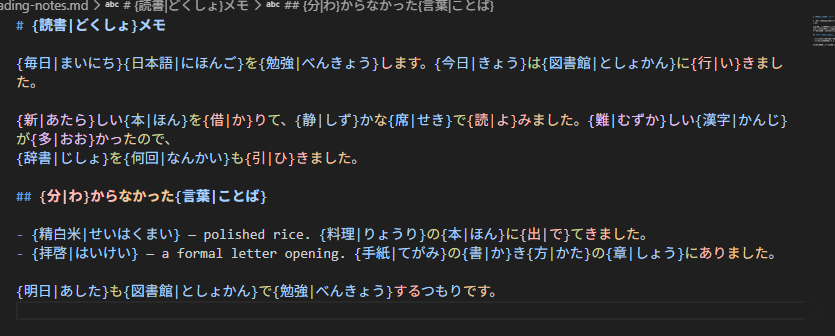
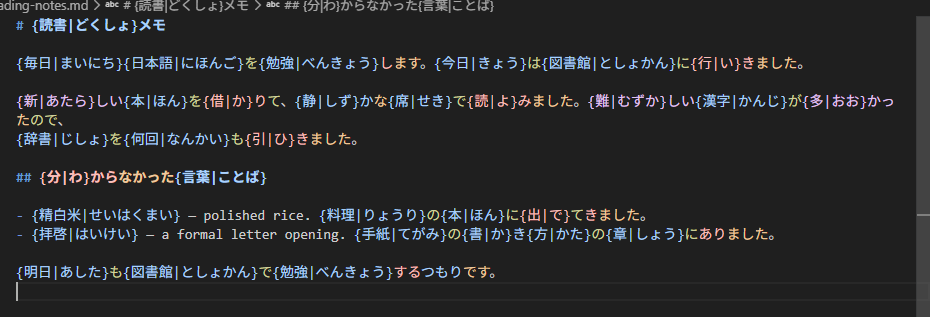
docs: update the feature claims, add a code-comment shot, translate the hero
The README said the editor features apply to "Markdown and plain-text files",
which stopped being true when comment highlighting landed. Hovers still do;
part-of-speech colouring now covers code comments as well, and the wording
separates the two rather than making one claim for both.

New section, "Color Japanese in code comments", with a capture whose whole
subject is the BOUNDARY: coloured comments above, an uncoloured string literal
below. The scenario asserts both before it shoots — at least eight decorated
spans on the comment, exactly zero on the literal — so if the feature ever
starts colouring string literals the docs run fails instead of quietly producing
a picture of the bug.

The hero image now shows this project's own README translated into Japanese,
rather than a study-notes fixture. A hero should show the reader themselves, and
someone reading technical documentation in a language they are still learning is
both the case this extension is for and a more universal one than keeping
vocabulary notes. It is also a deliberate first step toward a translated README,
which is a larger job because it needs review rather than just writing.

The translation is LITERAL — sentence for sentence against the English — rather
than a paraphrase. A paraphrase drifts from the text it claims to mirror, and
this file is meant to become that README later, so the drift would have to be
undone. It runs to the search table, which is what fills the editor pane.
[…]

diff --git a/e2e/docs/manual.docs.e2e.ts b/e2e/docs/manual.docs.e2e.ts
@@ -76,7 +76,12 @@ test.describe.configure({ mode: "serial" });
 let vscode: Launched | undefined;
 
 /** The fixture files, copied into the throwaway workspace so the editor has something to open. */
-const FIXTURES = ["grammar-notes.md", "checkout.ts", "reading-notes.md"];
+const FIXTURES = [
+  "grammar-notes.md",
+  "checkout.ts",
+  "reading-notes.md",
+  "translated-docs.md"
+];
 
 /**
  * A REQUESTED window size, so the full-app captures do not inherit whatever geometry the developer's
@@ -106,10 +111,14 @@ test.beforeAll(async () => {
   vscode = await launchVSCode(
     {
       "workbench.sideBar.location": "left",
+      // The minimap is editor chrome that no capture is about, and it intrudes on the right edge of
+      // every cropped editor shot — a strip of unreadable coloured noise beside the subject.
+      "editor.minimap.enabled": false,
       // Part-of-speech colouring is OFF by default, but it is a headline feature and the editor
       // captures are where it shows. Turning it on here documents what it looks like rather than
-      // what the defaults are.
-      "vscode-jisho.highlighting.enabled": true
+      // what the defaults are. Same for the code-comment half.
+      "vscode-jisho.highlighting.enabled": true,
+      "vscode-jisho.highlighting.codeComments": true
     },
     { windowSize: WINDOW }
   );
@@ -667,16 +676,79 @@ test("capture: furigana added to a study note", async () => {
   await expect(win.locator(".tab.dirty")).toHaveCount(0);
 });
 
+test("capture: part-of-speech colouring in code comments", async () => {
+  // WHY: the prose capture cannot show this. The whole point of the code-comment feature is the
+  // BOUNDARY — the comment is coloured and the string literal beside it is not — and that is only
+  // legible in a shot containing both. `checkout.ts` holds them a few lines apart.
+  const win = vscode!.window;
+  await captureBothThemes(vscode!, "pos-highlighting-code", async () => {
+    await openFixture(win, "checkout.ts");
+    // Assert the boundary BEFORE capturing, which is what makes this a drift alarm rather than a
+    // screenshot script: if the feature ever starts colouring string literals, this fails instead
+    // of quietly producing a picture of the bug.
+    const comment = win
+      .locator(".view-line")
+      .filter({ hasText: "在庫を確認してから決済に進みます" })
+      .first();
+    await expect(comment).toBeVisible();
+    await expect
+      .poll(
+        async () =>
+          comment.evaluate(
+            (el) =>
+              el.querySelectorAll('[class*="TextEditorDecorationType"]').length
+          ),
+        { timeout: 20_000 }
+      )
+      .toBeGreaterThanOrEqual(8);
+    const literal = win
+      .locator(".view-line")
+      .filter({ hasText: "申し訳ありませんが" })
+      .first();
+    await expect(literal).toBeVisible();
+    expect(
+      await literal.evaluate(
+        (el) =>
+          el.querySelectorAll('[class*="TextEditorDecorationType"]').length
+      )
+    ).toBe(0);
+    // Cropped to the SPAN between the two lines the picture is about, not to every line in the
+    // file. Handing `cropAround` all of them produced a 36-line image whose point was buried, and
+    // which included the fixture's English scaffolding comments — notes to a test author, not
+    // something a reader should be shown. The union of these two boxes is exactly the region where
+    // a coloured comment and an uncoloured string literal sit together.
+    // Anchored at the JSDoc block rather than at `comment`: the two lines directly BELOW that one
+    // are the fixture's English scaffolding (notes to a test author about hover offsets), and a
+    // crop starting there would put them in the picture.
+    const top = win
+      .locator(".view-line")
+      .filter({ hasText: "注文処理のユーティリティ" })
+      .first();
+    await expect(top).toBeVisible();
+    return cropAround(win, [top, literal], 16);
+  });
+});
+
 test("capture: the editor and the panel together", async () => {
   // WHY: the README needs one shot showing WHERE this lives — a file open, the panel beside it,
   // both showing Japanese. Every other capture is one half or the other.
+  //
+  // The file is this project's own README translated into Japanese, which does more work than the
+  // study-notes fixture it replaced. A hero image should show the reader THEMSELVES: someone
+  // reading technical documentation in a language they are still learning is the case this
+  // extension is for, and it is a more universal one than keeping vocabulary notes.
   const win = vscode!.window;
   await captureBothThemes(vscode!, "overview", async () => {
     const frame = await jishoFrame(win);
     await returnToSearch(frame);
-    await fillSearch(frame, "図書館");
+    await fillSearch(frame, "辞書");
     await expect(frame.getByRole("option").first()).toBeVisible();
-    await openFixture(win, "reading-notes.md");
+    await openFixture(win, "translated-docs.md");
+    // The colouring must have landed before the shot, or the hero shows the feature switched off —
+    // the same race the prose-colouring capture documents.
+    await expect(
+      win.locator(".view-line span[class*='TextEditorDecorationType']").first()
+    ).toBeVisible({ timeout: 20_000 });
     return workbenchRegion(win);
   });
 });

diff --git a/e2e/docs/fixtures/checkout.ts b/e2e/docs/fixtures/checkout.ts
@@ -5,8 +5,6 @@
  */
 
 // 在庫を確認してから決済に進みます
-// ^ A top-level comment, unindented and outside any string, so the documentation screenshot can
-//   hover a known character offset and get the dictionary's hover rather than TypeScript's.
 
 interface Order {
   /** 商品コード */

diff --git a/e2e/docs/fixtures/README.md b/e2e/docs/fixtures/README.md
@@ -9,11 +9,17 @@ screenshot, and a long file makes the capture depend on scroll position.
 
 ## The files
 
-| File               | Scenario                                     | Source                     |
-| ------------------ | -------------------------------------------- | -------------------------- |
-| `grammar-notes.md` | Reading a grammar guide with furigana markup | Adapted — see below        |
-| `checkout.ts`      | Reading a codebase with Japanese comments    | Original, written for this |
-| `reading-notes.md` | Keeping study notes in Japanese              | Original, written for this |
+| File                 | Scenario                                     | Source                     |
+| -------------------- | -------------------------------------------- | -------------------------- |
+| `grammar-notes.md`   | Reading a grammar guide with furigana markup | Adapted — see below        |
+| `checkout.ts`        | Reading a codebase with Japanese comments    | Original, written for this |
+| `reading-notes.md`   | Keeping study notes in Japanese              | Original, written for this |
+| `translated-docs.md` | Reading technical documentation in Japanese  | Original — see below       |
+| `notes.py`           | Comment highlighting: Python, with docstring | Original, written for this |
+| `notes.css`          | Comment highlighting: CSS                    | Original, written for this |
+| `notes.html`         | Comment highlighting: HTML                   | Original, written for this |
+| `notes.php`          | Comment highlighting: PHP                    | Original, written for this |
+| `notes.rs`           | Comment highlighting: Rust                   | Original, written for this |
 
 ## Sources and licences
 
@@ -23,8 +29,27 @@ a port of **Tae Kim's Guide to Learning Japanese**, used under
 explanation of を and に are from that guide; the file is trimmed and its custom markup simplified to
 the `{漢字|かんじ}` ruby syntax this extension understands.
 
-**`checkout.ts`** and **`reading-notes.md`** are original, written for these screenshots. No
-licensing constraint.
+**`checkout.ts`**, **`reading-notes.md`** and the five `notes.*` files are original, written for
+these screenshots. No licensing constraint.
+
+**`translated-docs.md`** is this project's own README translated into Japanese — literally, sentence
+for sentence, rather than paraphrased. That matters: a paraphrase drifts from the English it claims
+to mirror, and this file is the first step toward a translated README, so any drift would have to be
+undone later. It stops after the search table, which is about as much as fills the editor pane. Original in the sense that matters — it is our text, so there is no licensing constraint
+— and it earns its place by being the scenario itself: a developer reading technical documentation
+in a language they are still learning is exactly who this extension is for. It is also a deliberate
+first step toward a translated README, which is a larger job because it needs review rather than
+just writing.
+
+**`checkout.ts`'s first line comment is deliberately top-level and unindented**, sitting outside any
+string, so a hover capture can aim at a known character offset and get the dictionary's hover rather
+than TypeScript's. That used to be recorded as an English comment in the file itself, which then
+appeared in the code-comment screenshot — a note to a test author, shown to a reader. It lives here
+instead.
+
+The five `notes.*` files each hold the same two lines — one comment with Japanese, one string
+literal with the same Japanese — so the comment/string boundary is asserted identically across every
+language. They back `e2e/code-comments-languages.e2e.ts` rather than a screenshot.
 
 ## Adding a fixture
 

diff --git a/README.md b/README.md
@@ -41,6 +41,7 @@ An offline Japanese dictionary in your sidebar. Look up a word, read a kanji, or
     - [Kana](#kana)
   - [Working in the editor](#working-in-the-editor)
     - [Color Japanese by part of speech](#color-japanese-by-part-of-speech)
+    - [Color Japanese in code comments](#color-japanese-in-code-comments)
     - [Hover for a definition](#hover-for-a-definition)
     - [Add furigana to a selection](#add-furigana-to-a-selection)
   - [Commands](#commands)
@@ -349,7 +350,7 @@ Selecting a kana opens its stroke order rather than searching: a single syllable
 
 ## Working in the editor
 
-Jisho also works on the file you have open. These features apply to **Markdown and plain-text files**.
+Jisho also works on the file you have open. Hovers apply to **Markdown and plain-text files**; part-of-speech coloring goes further and can color the **comments in your code** as well.
 
 ### Color Japanese by part of speech
 
@@ -368,6 +369,24 @@ Japanese does not put spaces between words. Turning on part-of-speech coloring g
 This is off by default. Turn it on with `vscode-jisho.highlighting.enabled`.
 
 Three alternative palettes are available for protanopia, deuteranopia and tritanopia. They are not tinted versions of the standard palette. Each one re-picks its colors to stay distinguishable. Set `vscode-jisho.appearance.palette` to choose one.
+
+### Color Japanese in code comments
+
+<div align="center">
+  <figure>
+    <picture>
+      <source media="(prefers-color-scheme: dark)" srcset="docs/images/pos-highlighting-code-dark.png" />
+      <img alt="A TypeScript file where the Japanese in the comments is colored by part of speech, while the Japanese inside a string literal a few lines below is left in the theme's own color." src="docs/images/pos-highlighting-code-light.png" />
+    </picture>
+    <figcaption><small><em>Comments are colored. The string literal below them is not.</em></small></figcaption>
+  </figure>
+</div>
+
+Set `vscode-jisho.highlighting.codeComments` and the same coloring applies to the comments in your code. JavaScript, TypeScript, HTML, CSS, Python, PHP and Rust are covered, and Python docstrings count as comments.
+
+**Comments only.** Strings and identifiers are left alone, so the coloring never changes how the code itself reads. Markdown inside a doc comment works the way you would expect — bold, lists and links are all read through — and a fenced code block is skipped along with everything else that is code.
+
+Comment boundaries come from the same grammar your editor uses for syntax highlighting, so a `//` inside a template literal is correctly not a comment.
 
 ### Hover for a definition
 
@@ -453,9 +472,7 @@ The dictionary downloads on first use. If that download failed, most often becau
 
 Hovers apply to Markdown and plain-text files only. Japanese in a `.py` or `.go` file is not covered yet.
 
-Part-of-speech coloring goes one step further: set `vscode-jisho.highlighting.codeComments` and it colors Japanese in the **comments** of your code. JavaScript, TypeScript, HTML, CSS, Python, PHP and Rust are covered, along with Python's docstrings.
-
-Comments only — strings and identifiers are left alone, so the coloring never changes how the code itself reads. Markdown inside a doc comment works as you would expect, and fenced code blocks are skipped along with everything else that is code.
+Part-of-speech coloring is covered though — see [Color Japanese in code comments](#color-japanese-in-code-comments).
 
 ### A word is not found, or the wrong word comes back
 

diff --git a/e2e/docs/fixtures/translated-docs.md b/e2e/docs/fixtures/translated-docs.md
@@ -1,0 +1,44 @@
+# 📔 Jisho: VS Code 用オフライン日本語辞書
+
+サイドバーで使えるオフラインの日本語辞書です。エディタから離れることなく、
+単語を調べ、漢字を読み、活用を確認できます。
+
+## Jisho とは
+
+Jisho は、あなたのマシン上だけで動作する和英辞典です。読むために作られています。
+日本語を含むファイルを開いていて、知らない単語に出会ったとき、ブラウザを開かずに
+その答えが欲しい、という場面のためのものです。
+
+すべての検索はローカルのデータベースに対して実行されます。ネットワーク通信も、
+アカウントも、レート制限もありません。macOS および iOS の辞書アプリ
+Shirabe Jisho を手本にしています。
+
+この辞書には約 218,000 語と 10,000 字の漢字が収録されており、JMdict と KANJIDIC を
+出典としています。これらは公開されている日本語辞書の多くが基にしているデータです。
+完全な一覧は「データの出典」を参照してください。
+
+## インストール
+
+VS Code の拡張機能ビュー、またはマーケットプレイスから
+**Jisho: Offline Japanese Dictionary** をインストールしてください。
+
+> [!Note]
+>
+> Jisho には **VS Code 1.123 以降** が必要です。
+
+パネルを初めて開いたとき、Jisho は辞書をダウンロードします。約 125 MB で、
+ディスク上では約 450 MB に展開され、進捗は通知に表示されます。これは一度だけです。
+それ以降はすべてローカルで完結します。
+
+## 検索
+
+検索欄は四種類の入力を受け付けます。どれを使っているかを伝える必要はありません。
+
+| 入力する内容 | 例           | 得られるもの           |
+| ------------ | ------------ | ---------------------- |
+| 日本語       | `図書館`     | その単語そのもの       |
+| かな         | `としょかん` | その読みを持つ単語     |
+| ヘボン式     | `toshokan`   | 同じものを字訳したもの |
+| 英語         | `library`    | その意味を持つ単語     |
+
+結果は関連度順に並ぶので、探していた単語がまず先頭に来ます。
